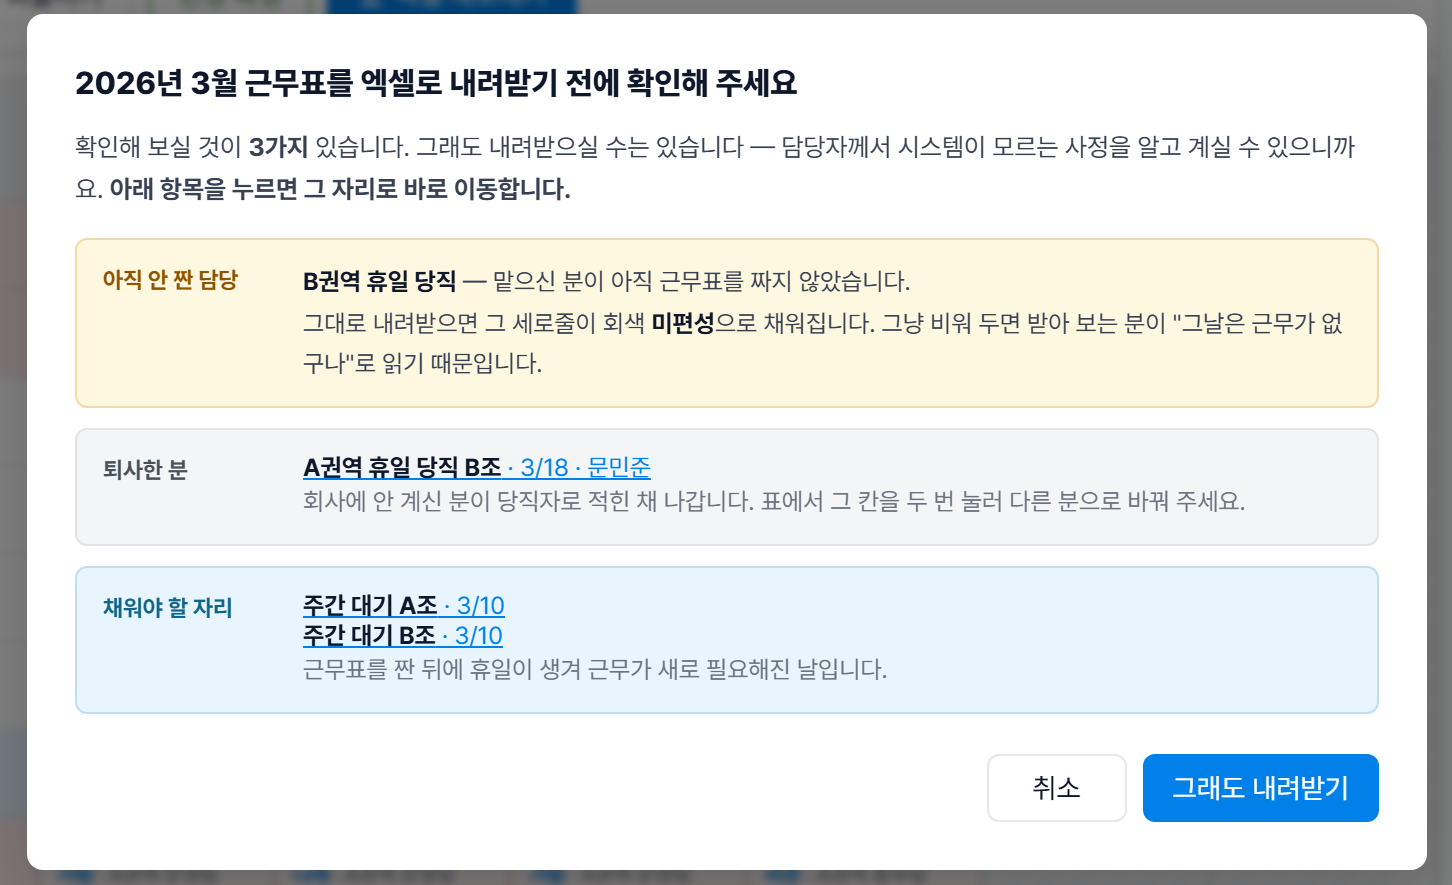
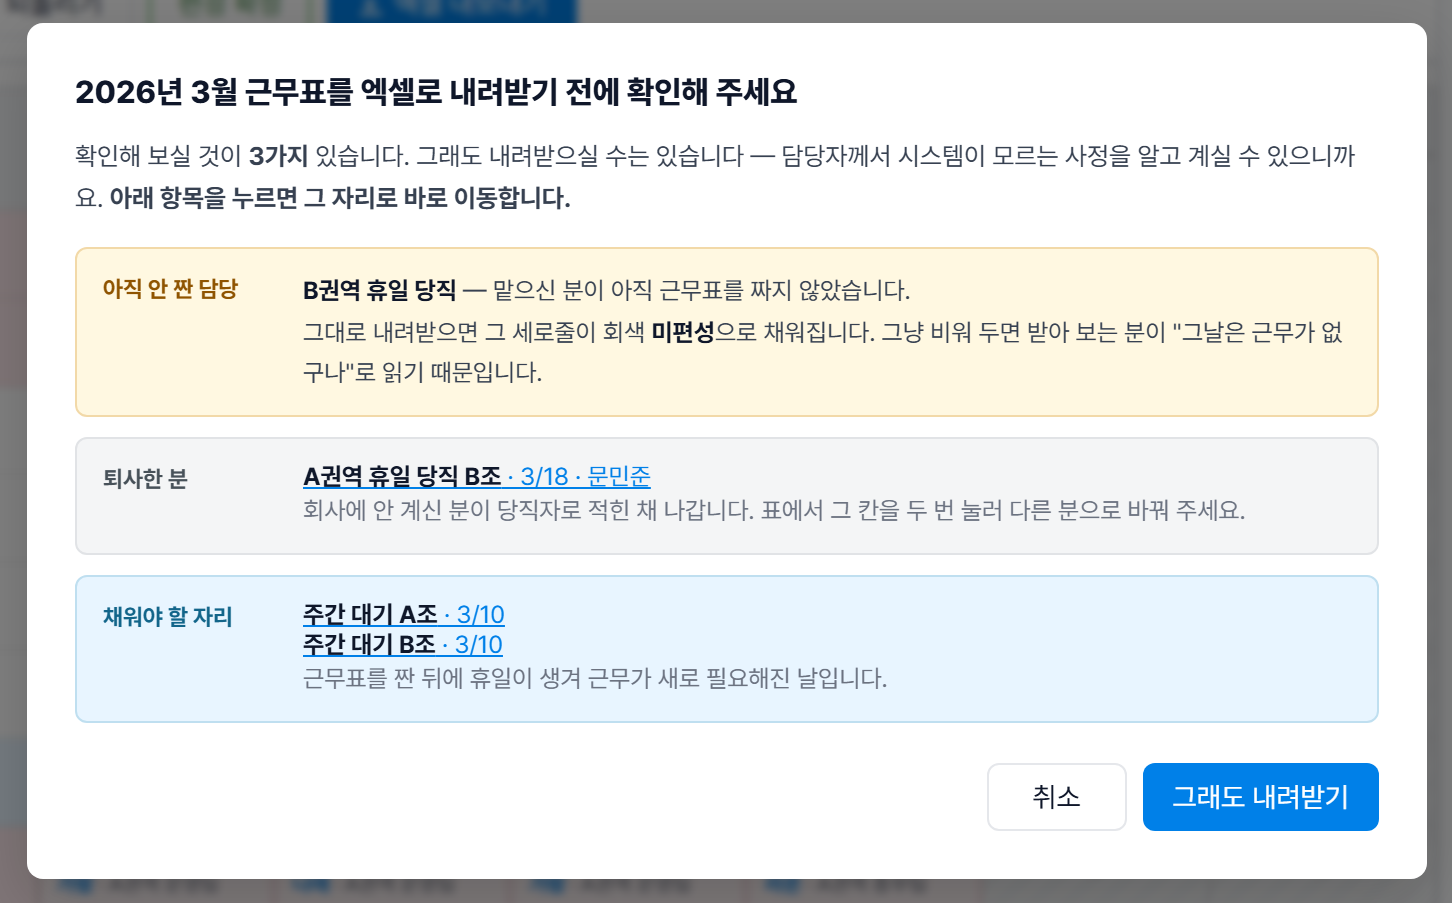
[FIX] 교대 근무표 최종 리뷰 반영 — 문구·미편성 그림·표지 번호
- 4번 제목·"전에는" 줄과 "지난달 파일" 되풀이를 고침
- 미편성 미리보기를 세 묶음 머리와 온전한 행으로 다시 자르고
  alt 를 그림에 맞춤(확인 창도 같은 비율로)
- 표지의 한 주 두 번 근무를 D조로 옮겨, 폰에서 번호가 이름을
  덮지 않게 번호를 빈 B권역 열 위에 둠

diff --git a/web/content/studies/shift-board.ts b/web/content/studies/shift-board.ts
@@ -4,7 +4,7 @@ import type { Spot } from '../types';
 const F = (name: string, alt: string, spots?: Spot[]): Figure => ({ src: `/screens/shift/${name}.png`, alt, spots });
 /** Task 1 에서 칸 위치로 계산한 번호 좌표(그림 %) — 모두 빈 칸 위 */
 /** 제목의  : 수와 단위(한 달치 · 두 번 · 몇 번)가 줄 사이에서 갈라지지 않게 */
-const PINS = [{ x: 57.2, y: 30.7 }, { x: 14.8, y: 36.2 }, { x: 45.9, y: 66.4 }];
+const PINS = [{ x: 67.1, y: 49.9 }, { x: 46.4, y: 34.8 }, { x: 46.4, y: 66.4 }];
 /** Task 2 에서 잰 panel.png 의 6번 줄 */
 const SPOT = { x: 68.5, y: 37.8, w: 31, h: 3.4 };
 
@@ -22,7 +22,7 @@ export const shiftBoard: Study = {
       pinned: F('excel-cover', '엑셀 파일 "2026년 3월 근무편성표_취합.xlsx"의 취합 시트. 3월 1일부터 날짜마다 A권역·B권역 휴일 당직과 주간 대기 근무자 이름이 적혀 있고, B권역 네 칸은 비어 있다.'),
       pins: [
         { ...PINS[0], text: '담당자 한 명의 파일이 늦으면, 합친 파일에서 그 담당의 세로줄이 통째로 비었습니다.' },
-        { ...PINS[1], text: '정민준 님이 3월 2일과 5일, 한 주에 두 번 들어가 있습니다. 눈으로 찾기 전에는 알 수 없었습니다.' },
+        { ...PINS[1], text: '최하은 님이 3월 3일과 6일, 한 주에 두 번 들어가 있습니다. 눈으로 찾기 전에는 알 수 없었습니다.' },
         { ...PINS[2], text: '문민준 님은 이미 퇴사한 분입니다. 지난달 파일을 복사해 쓰다 보니 이름이 그대로 남았습니다.' },
       ],
     },
@@ -44,10 +44,10 @@ export const shiftBoard: Study = {
           rows: [
             ['순번', '지난달 파일을 보고 이어서 셈', '기억한 순번부터 자동으로 짬'],
             ['한 주 두 번', '눈으로 찾아야 앎', '그 칸에 빨간 테두리'],
-            ['퇴사한 분', '지난달 파일에 이름이 남음', '칸에 표시하고 내려받기 전 알림'],
+            ['퇴사한 분', '이름이 그대로 남음', '칸에 표시하고 내려받기 전 알림'],
             ['휴일', '달력에서 찾아 적음, 빠져도 모름', '휴일을 넣으면 채워야 할 자리로 표시'],
             ['담당자가 자리를 비우면', '그 담당의 근무표가 멈춤', '관리자가 대신 짤 수 있음'],
-            ['편성 횟수', '달마다 파일을 다시 세어야 앎', '근무표 옆에 이달 · 올해 횟수'],
+            ['편성 횟수', '달마다 파일이 따로 있음', '근무표 옆에 이달 · 올해 횟수'],
           ] },
         { type: 'quote', text: '근무표를 대신 짜 주는 것만으로는 부족했습니다. 틀린 칸이 공지 전에 보여야 했습니다.' },
       ],
@@ -71,7 +71,7 @@ export const shiftBoard: Study = {
       h: '짜는 화면과 확인하는 화면',
       p: ['근무표 화면 옆에 휴일 관리와 인원 관리가 붙어 있어서, 휴일이나 명단이 바뀌면 근무표에서 손봐야 할 칸이 바로 표시됩니다.'],
       blocks: [
-        { type: 'note', was: '지난달 파일을 열어 마지막 근무자부터 찾았습니다.',
+        { type: 'note', was: '순번을 한 칸 잘못 세면 그 뒤가 모두 밀렸습니다.',
           h: '지난달 순번을 이어받아 한 달치를 짭니다',
           p: ['「A권역 휴일 당직 자동 편성」을 누르면 맡은 조의 한 달 근무표가 채워집니다. 시작 순번을 기억하고 있어서 몇 번을 다시 눌러도 결과가 같습니다.'],
           figs: [F('roster', '근무편성표 화면. 범위 탭 "A권역 휴일 당직 내 담당 직접 수정 2"가 선택되어 있고, 2026년 3월, "겹치는 근무 없음" "직접 바꾼 근무 2건" 표시와 「A권역 휴일 당직 자동 편성」 「되돌리기」 「편성 확정」 「엑셀 내보내기」 단추 아래로 날짜별 A조~D조 근무자가 이름·담당 지역·소속팀과 함께 적혀 있다.')] },
@@ -85,11 +85,11 @@ export const shiftBoard: Study = {
           sides: ['날짜 맞바꾸기', '다른 분으로'],
           beforeFig: F('picker', '근무자 바꾸기 창. "A권역 휴일 당직 B조 · 3/18(수) 근무자를 같은 조의 다른 분으로 바꿉니다." 설명 아래 사번·이름 검색 칸과 명단이 있고, 사람마다 담당 지역과 "이번 달 1번 · 올해 5번" 같은 횟수가 붙어 있다. 퇴사한 문민준 행에는 "지금 이 자리"가 표시되어 있다.'),
           figs: [F('swap', '근무표에서 3월 6일 A조 송민준, 3월 13일 A조 한민준 칸이 노랗게 칠해져 있고, 위에 "직접 바꾼 근무 2건"이 표시되어 있다.')] },
-        { type: 'note', was: '빠진 담당이 있는지는 합친 파일을 한 칸씩 훑어봐야 눈에 띄었습니다.',
-          h: '엑셀을 내려받기 전에 걸러야 할 칸을 한 번 더 확인합니다',
+        { type: 'note', was: '빠진 칸이 있는지는 결재를 올리는 사람이 따로 챙겨야 했습니다.',
+          h: '엑셀을 내려받기 직전에 확인 창이 한 번 더 뜹니다',
           p: ['아직 안 짠 담당, 퇴사한 분, 채워야 할 자리가 있으면 목록으로 나오고, 누르면 그 칸으로 갑니다. 그래도 내려받으면 안 짠 담당의 세로줄은 회색 "미편성"으로 채워집니다.'],
           sides: ['내려받기 전', '미편성 미리보기'],
-          beforeFig: F('unassigned', '엑셀 미리보기. A권역 휴일 당직 칸에는 근무자가 차 있고, B권역 휴일 당직 A조~D조 네 열은 날마다 회색 "미편성"으로 채워져 있다. 주간 대기는 토·일·공휴일에만 이름이 있다.'),
+          beforeFig: F('unassigned', '엑셀 미리보기. A권역 휴일 당직 C조·D조 칸에는 근무자가 차 있고, B권역 휴일 당직 A조~D조 네 열은 날마다 회색 "미편성"으로 채워져 있다. 주간 대기는 토·일·공휴일에만 이름이 있다.'),
           figs: [F('export-check', '엑셀 내려받기 전 확인 창. "아직 안 짠 담당 · B권역 휴일 당직", "퇴사한 분 · A권역 휴일 당직 B조 · 3/18 · 문민준", "채워야 할 자리 · 주간 대기 A조 · 3/10"이 있고 「취소」와 「그래도 내려받기」 단추가 있다.')] },
         { type: 'note', was: '누가 몇 번 섰는지는 여러 달 파일을 다시 세어 봐야 알았습니다.',
           h: '사람마다 이번 달과 올해 몇 번 섰는지 옆에 쌓입니다',

diff --git a/design/case-assets/shift-board-excel.html b/design/case-assets/shift-board-excel.html
@@ -119,11 +119,12 @@ const W = [56, 36, 88, 96, 96, 96, 96, 96, 96, 96, 96, 96, 96, 72, 72, 72];
 const COLS = 'ABCDEFGHIJKLMNOP'.split('');
 const DAYS = ['일','월','화','수','목','금','토','일','월','화','수','목','금','토','일','월'];
 const HOLI = { 1: '삼일절', 2: '대체공휴일' };
-// 파일에 심은 문제(명세 3-3): A조 정민준이 3/2·3/5 한 주에 두 번, D조 3/16 에 퇴사한 문민준, B권역 네 열은 빈칸
-const A = ['강민준','정민준','윤민준','장민준','정민준','송민준','오민준','서민준','신민준','권민준','황민준','안민준','한민준','김민준','이민준','박민준'];
+// 파일에 심은 문제(명세 3-3): D조 최하은이 3/3·3/6 한 주에 두 번, D조 3/16 에 퇴사한 문민준, B권역 네 열은 빈칸.
+// 둘 다 D조(G열)라 번호를 바로 오른쪽 빈 B권역 열(H) 위에 둘 수 있다 — 폰에서도 이름을 덮지 않는다
+const A = ['강민준','조민준','윤민준','장민준','임민준','송민준','오민준','서민준','신민준','권민준','황민준','안민준','한민준','김민준','이민준','박민준'];
 const B = ['양서연','손서연','배서연','백서연','허서연','남서연','구서연','노서연','이서연','박서연','최서연','정서연','강서연','류서연','전서연','홍서연'];
 const C = ['송도윤','류도윤','전도윤','홍도윤','고도윤','조도윤','윤도윤','장도윤','임도윤','한도윤','오도윤','권도윤','신도윤','황도윤','안도윤','백도윤'];
-const D = ['남하은','구하은','김하은','이하은','박하은','최하은','정하은','강하은','조하은','윤하은','장하은','임하은','한하은','오하은','서하은','문민준'];
+const D = ['남하은','구하은','최하은','이하은','박하은','최하은','정하은','강하은','조하은','윤하은','장하은','임하은','한하은','오하은','서하은','문민준'];
 const WA = { 1: '손시우', 2: '배시우', 7: '백시우', 8: '허시우', 14: '남시우', 15: '구시우' };
 const WB = { 1: '이하준', 2: '박하준', 7: '최하준', 8: '정하준', 14: '강하준', 15: '조하준' };
 const ROWS = 28, SEL = { col: 'G', row: 19 };
@@ -156,14 +157,14 @@ for (let r = 1; r <= ROWS; r++) {
 }
 t.appendChild(body);
 
-// 번호 좌표(그림 % — 명세 3-4). 모두 빈 칸 위: ① B권역 빈 열 가운데 6행 ② C8 오른쪽 끝(옆이 D8 정민준) ③ H19 왼쪽(옆이 G19 문민준)
+// 번호 좌표(그림 % — 명세 3-4). 모두 빈 칸 위: ① B권역 빈 열 K 가운데 13행(폰 그림 폭 ~344px 에서도 ②·③과 세 배 간격) ② H 왼쪽, 6~9행 가운데(옆이 G6·G9 최하은) ③ H19 왼쪽(옆이 G19 문민준)
 const at = (col, row) => t.rows[row].cells[COLS.indexOf(col) + 1].getBoundingClientRect();
 const pct = (x, y) => ({ x: +(x / 12.8).toFixed(1), y: +(y / 8).toFixed(1) });
-const h6 = at('H', 6), k6 = at('K', 6), c8 = at('C', 8), h19 = at('H', 19);
+const k13 = at('K', 13), h6 = at('H', 6), h9 = at('H', 9), h19 = at('H', 19);
 window.PINS = [
-  pct((h6.left + k6.right) / 2, (h6.top + h6.bottom) / 2),
-  pct(c8.right - 22, (c8.top + c8.bottom) / 2),
-  pct(h19.left + 24, (h19.top + h19.bottom) / 2),
+  pct((k13.left + k13.right) / 2, (k13.top + k13.bottom) / 2),
+  pct(h6.left + 30, (h6.top + h9.bottom) / 2),
+  pct(h19.left + 30, (h19.top + h19.bottom) / 2),
 ];
 </script>
 </body>

diff --git a/design/case-assets/shift-board-crops.py b/design/case-assets/shift-board-crops.py
@@ -63,10 +63,11 @@ s3 = save(im, (529, y, 529 + W3, y + H3), 'swap')
 im = load('04-picker')
 save(im, (862, 300, 862 + W3, 300 + H3), 'picker', s3)   # 모달 가운데(원본 x 1679)에 맞춤
 # 4 전환: 내려받기 전 / 미편성 미리보기 — 같은 크기.
-#   미리보기를 먼저 열 경계(A권역 토 추가① 왼쪽 선 1790 ~ 주간 대기 B조 오른쪽 선 3711)와 머리 윗선(796)·행 구분선으로 자르고,
+#   미리보기를 먼저 열 경계(A권역 C조 왼쪽 선 1390 — "A권역 휴일 당직" 머리 글자 1505~1657 가 다 들어온다 ~ 주간 대기 B조 오른쪽 선 3711),
+#   머리 윗선(796), 3/15 행 아래 구분선(2238, 3/18 퇴사자 칸은 들어오지 않는다)으로 자르고,
 #   확인 창은 그 가로세로 비율로 모달 가운데(원본 1679, 1050)에서 잘라 같은 크기로 맞춘다
 im = load('06-unassigned-full')
-un = im.crop((1790, 796, 3712, snap(im, 2200, 2900, 1966)))
+un = im.crop((1390, 796, 3712, 2240))
 im = load('05-export-check')
 w4 = 1452; h4 = round(w4 * un.height / un.width)
 s4 = save(im, (1679 - w4 // 2, 1050 - h4 // 2, 1679 - w4 // 2 + w4, 1050 - h4 // 2 + h4), 'export-check')
